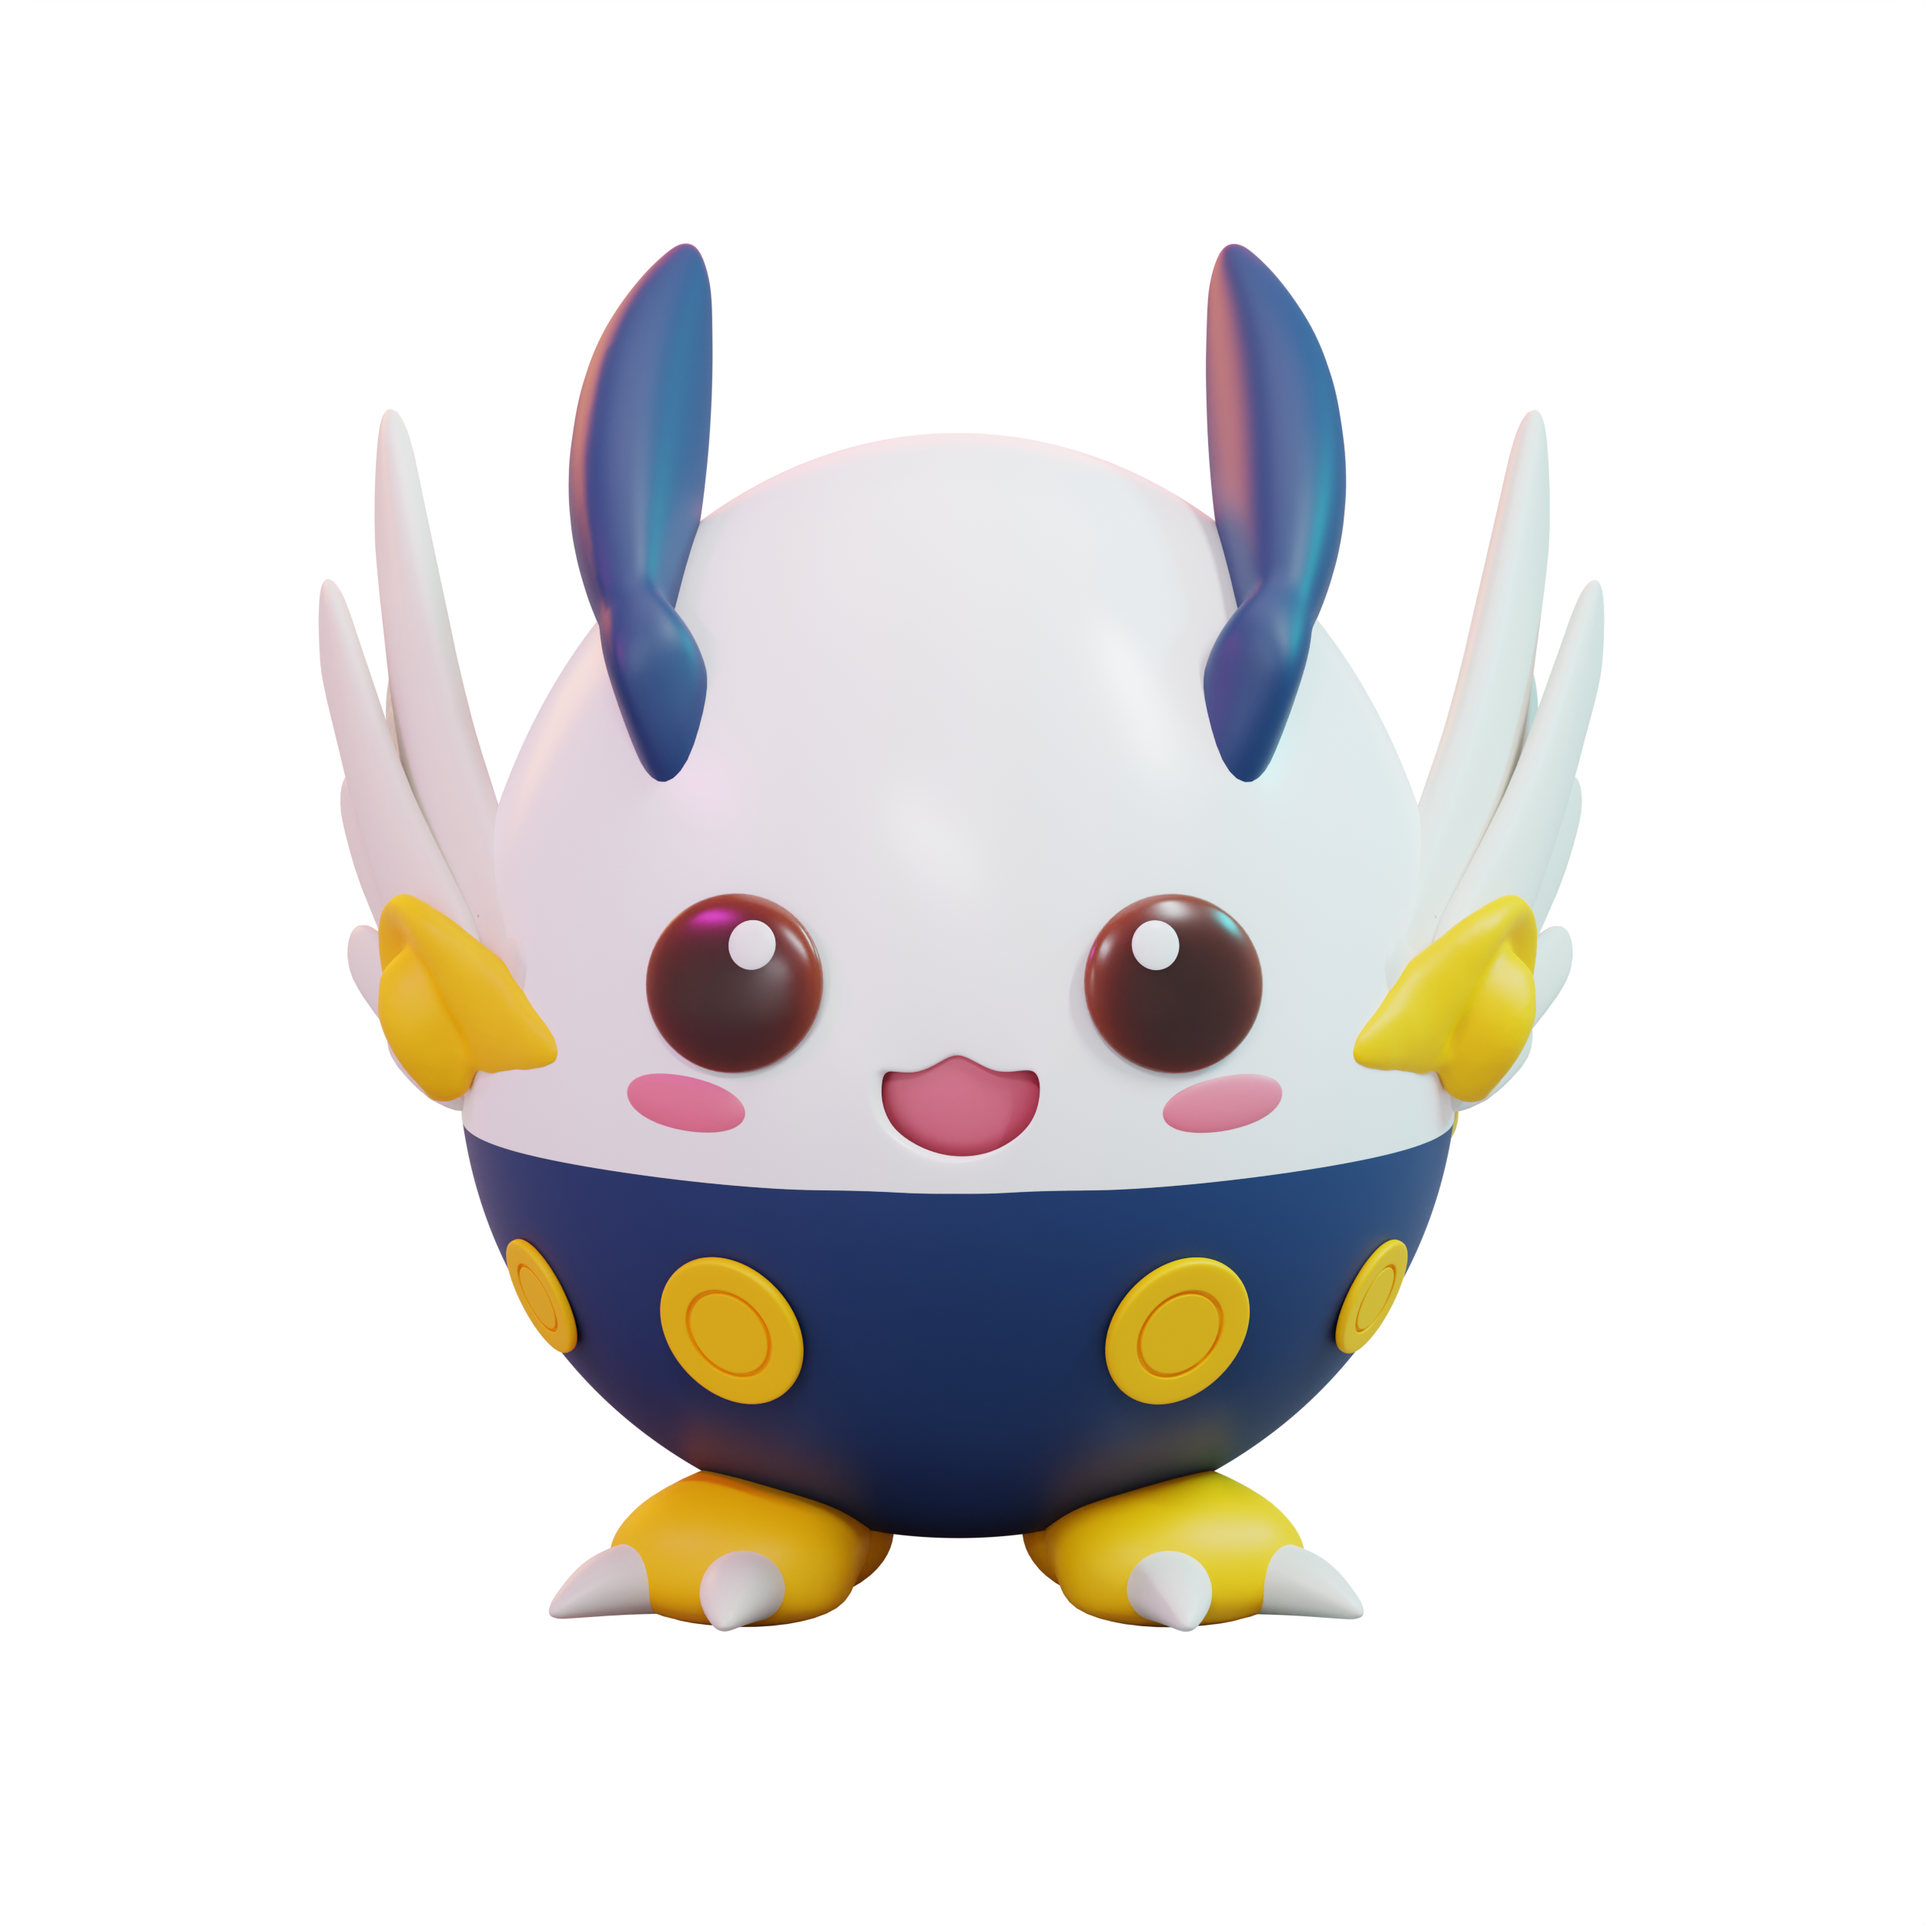
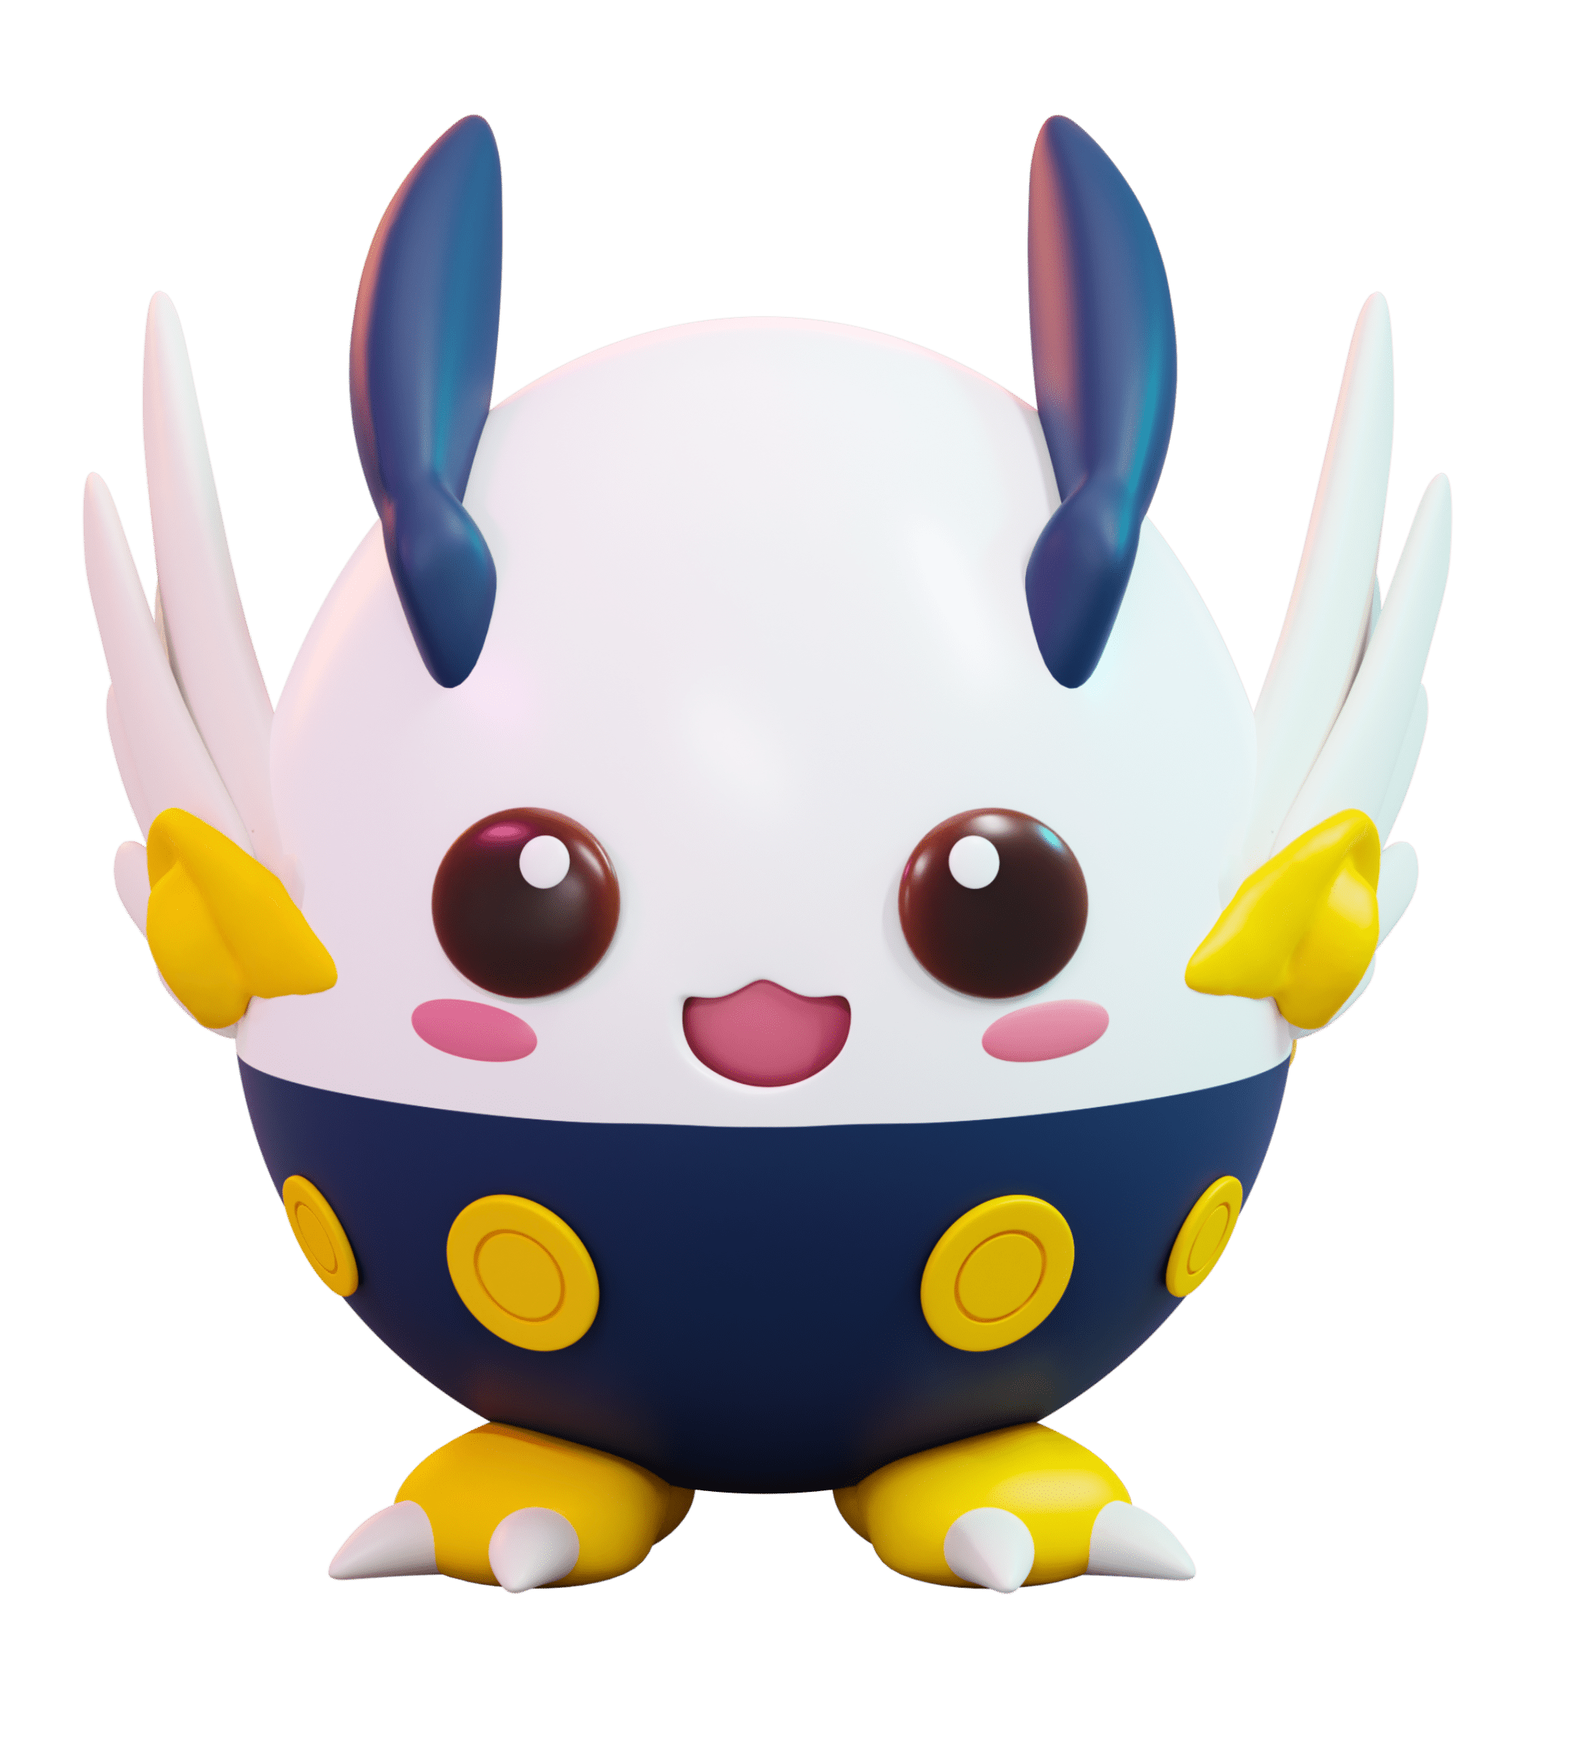
updated

diff --git a/tokenomics.html b/tokenomics.html
@@ -13,7 +13,7 @@
     <header class="position-sticky w-100">
         <div class="container">
             <nav class="navbar pl-0 navbar-expand-lg">
-                <a class="navbar-brand" href="index.html"><img src="images/logo.png" alt=""></a>
+                <a class="navbar-brand" href="index.html"><img src="images/eggy.png" alt=""></a>
                 <button class="navbar-toggler" type="button" data-toggle="collapse" data-target="#navbarNav" aria-controls="navbarNav" aria-expanded="false" aria-label="Toggle navigation">
                   <span class="navbar-toggler-icon"> <div class="fa fa-bars text-primary"></div></span>
                 </button>

diff --git a/index.html b/index.html
@@ -48,7 +48,7 @@
           <div class="row justify-content-center align-items-center">
             <div class="col-md-7 mt-4">
                 <div class="text-img">
-                    <img src="images/logo.png" alt="">
+                    <img src="images/eggy.png" alt="">
                 </div>
 
                 <div class="hero-img d-md-none">

diff --git a/roadmap.html b/roadmap.html
@@ -24,7 +24,7 @@
       <div class="container">
         <nav class="navbar pl-0 navbar-expand-lg">
           <a class="navbar-brand" href="index.html"
-            ><img src="images/logo.png" alt=""
+            ><img src="images/eggy.png" alt=""
           /></a>
           <button
             class="navbar-toggler"

diff --git a/style.css b/style.css
@@ -222,8 +222,8 @@ header {
 
 .token-feature .small-img {
     position: absolute;
-    width: 140px;
-    top: -55px;
+    width: 120px;
+    top: -50px;
     right: 20%;
 }
 
